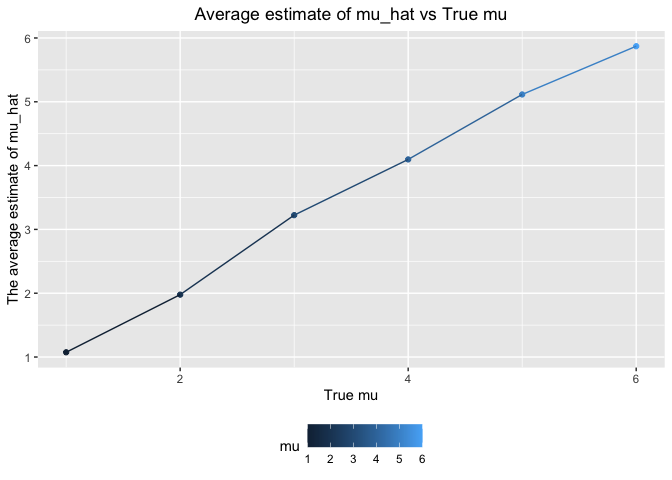
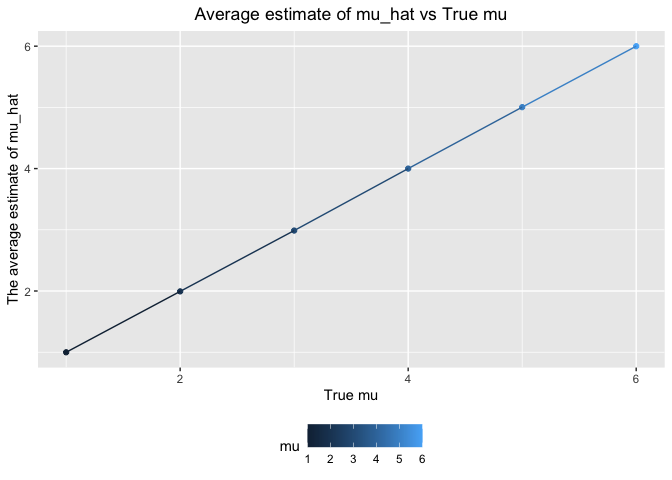
Add explanations of problem 3

diff --git a/p8105_hw5_zc2610.md b/p8105_hw5_zc2610.md
@@ -439,27 +439,27 @@ Set mu=0, generate 5000 datasets from the model x∼Normal\[μ,σ\] and save
 mu_hat and p.value arising from a test of H:μ=0 α=0.05 using a for loop
 
 ``` r
-output = vector("list",length = 50)
-for (i in 1:50){
+output = vector("list",length = 5000)
+for (i in 1:5000){
   output[[i]] = sim_estimate_pvalue(30,0,5)
 }
 bind_rows(output)
 ```
 
-    ## # A tibble: 50 × 2
-    ##     mu_hat p_value
-    ##      <dbl>   <dbl>
-    ##  1 -0.720  0.413  
-    ##  2 -0.179  0.846  
-    ##  3 -0.866  0.260  
-    ##  4  2.11   0.00823
-    ##  5  0.764  0.264  
-    ##  6  0.380  0.650  
-    ##  7 -0.954  0.301  
-    ##  8 -0.795  0.341  
-    ##  9  0.164  0.869  
-    ## 10  0.0367 0.965  
-    ## # … with 40 more rows
+    ## # A tibble: 5,000 × 2
+    ##    mu_hat p_value
+    ##     <dbl>   <dbl>
+    ##  1  0.608   0.477
+    ##  2 -0.313   0.776
+    ##  3  0.472   0.568
+    ##  4  0.162   0.793
+    ##  5 -0.472   0.633
+    ##  6 -0.266   0.783
+    ##  7  0.774   0.470
+    ##  8  0.906   0.284
+    ##  9  0.181   0.856
+    ## 10  0.693   0.473
+    ## # … with 4,990 more rows
 
 Repeat the above for mu={1,2,3,4,5,6}
 
@@ -468,7 +468,7 @@ sim_results = tibble(
   mu = c(1,2,3,4,5,6)
 ) %>% 
   mutate(
-    output_lists = map(.x = mu,~rerun(50,sim_estimate_pvalue(30,.x,5))),
+    output_lists = map(.x = mu,~rerun(5000,sim_estimate_pvalue(30,.x,5))),
     estimate_df = map(output_lists,bind_rows)
   ) %>% 
   select(-output_lists) %>% 
@@ -491,20 +491,20 @@ sim_results = sim_results %>%
 sim_results
 ```
 
-    ## # A tibble: 300 × 4
-    ##       mu mu_hat    p_value conclusion    
-    ##    <dbl>  <dbl>      <dbl> <chr>         
-    ##  1     1  2.02  0.0674     fail to reject
-    ##  2     1  3.63  0.00000494 reject        
-    ##  3     1  0.400 0.646      fail to reject
-    ##  4     1  0.190 0.821      fail to reject
-    ##  5     1  2.07  0.0218     reject        
-    ##  6     1 -0.728 0.375      fail to reject
-    ##  7     1  0.994 0.289      fail to reject
-    ##  8     1  1.44  0.107      fail to reject
-    ##  9     1  1.92  0.0102     reject        
-    ## 10     1 -0.287 0.795      fail to reject
-    ## # … with 290 more rows
+    ## # A tibble: 30,000 × 4
+    ##       mu   mu_hat p_value conclusion    
+    ##    <dbl>    <dbl>   <dbl> <chr>         
+    ##  1     1  2.35    0.0343  reject        
+    ##  2     1  0.00302 0.998   fail to reject
+    ##  3     1 -0.213   0.765   fail to reject
+    ##  4     1  0.480   0.564   fail to reject
+    ##  5     1  0.425   0.584   fail to reject
+    ##  6     1  0.293   0.711   fail to reject
+    ##  7     1 -0.263   0.748   fail to reject
+    ##  8     1  0.678   0.531   fail to reject
+    ##  9     1  2.80    0.00349 reject        
+    ## 10     1  0.923   0.419   fail to reject
+    ## # … with 29,990 more rows
 
 1.  Count the number of total conclusions with each true mu
 
@@ -620,3 +620,8 @@ Answer:
 2.  When the true value of mu is from 4 to 6, the sample average of
     mu_hat across tests for which the null is rejected is approximately
     equal to the true value of mu
+
+3.  The reason is that for random variables, if they are far away from
+    mu = 0, they are more likely to be in the rejected area. If so, the
+    average estimate of mu_hat will be closer to the true mu for
+    “rejected” samples.
